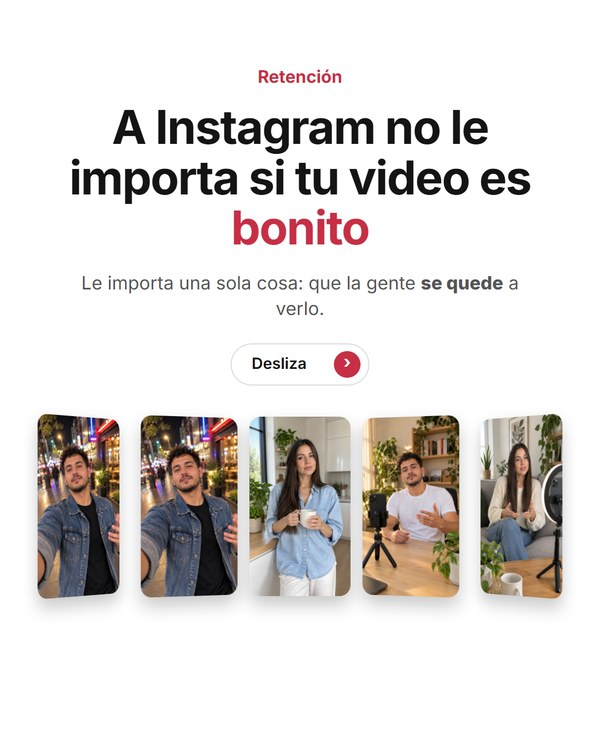
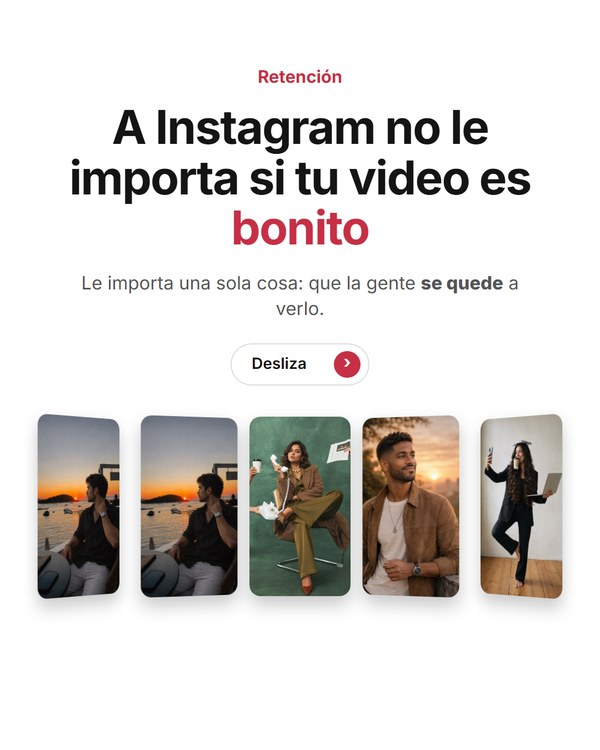
Carruseles: portadas nuevas de 7 plantillas con fotos de dirección editorial (recreadas con IA desde referencias)

Changed region(s): [[0.06, 0.552, 0.96, 0.7973]]

diff --git a/herramientas/carruseles/app.js b/herramientas/carruseles/app.js
@@ -533,7 +533,7 @@
     $(sel + ' [data-cambiar-estilo]').onclick = function () { E.volverDeEstilos = E.vista; ir('estilos'); };
   }
   // la tapa de un estilo: su portada de muestra (imagen del catálogo aprobado)
-  function tapaFamilia(el, id, ancho) { el.innerHTML = '<img src="carruseles/tapas/' + id + '.jpg" alt="" style="width:100%;height:100%;object-fit:cover;display:block" onerror="this.style.display=\'none\'">'; }
+  function tapaFamilia(el, id, ancho) { el.innerHTML = '<img src="carruseles/tapas/' + id + '.jpg?v=20261028f" alt="" style="width:100%;height:100%;object-fit:cover;display:block" onerror="this.style.display=\'none\'">'; }
   function resumen() {
     var C = E.crear, f = F.de(C.familia), vid = C.modo === 'video';
     var t = (C.texto || '').trim();
@@ -620,7 +620,7 @@
       $('#detalle-estilo').innerHTML = ''; return;
     }
     $('#rejilla-estilos').innerHTML = catalogo().map(function (f) {
-      return '<button type="button" class="fam-t ' + (pasa(f) ? '' : 'apagada') + (f.lista ? '' : ' pronto') + '" data-fam="' + f.id + '" aria-pressed="' + (f.id === E.crear.familia) + '"><img src="carruseles/tapas/' + f.id + '.jpg" alt="" loading="lazy"><span class="insignias">' + (f.anim ? '<span class="ins anim">▶ VIDEO</span>' : '') + (f.ia ? '<span class="ins ia">IA</span>' : '') + (f.lista ? '' : '<span class="ins pronto">PRONTO</span>') + '</span><b>' + esc(f.nombre) + '</b></button>';
+      return '<button type="button" class="fam-t ' + (pasa(f) ? '' : 'apagada') + (f.lista ? '' : ' pronto') + '" data-fam="' + f.id + '" aria-pressed="' + (f.id === E.crear.familia) + '"><img src="carruseles/tapas/' + f.id + '.jpg?v=20261028f" alt="" loading="lazy"><span class="insignias">' + (f.anim ? '<span class="ins anim">▶ VIDEO</span>' : '') + (f.ia ? '<span class="ins ia">IA</span>' : '') + (f.lista ? '' : '<span class="ins pronto">PRONTO</span>') + '</span><b>' + esc(f.nombre) + '</b></button>';
     }).join('');
     $$('[data-fam]').forEach(function (b) { b.onclick = function () { verEstilo(b.dataset.fam); }; });
     verEstilo(E.estiloVisto || E.crear.familia);
@@ -629,7 +629,7 @@
     E.estiloVisto = id;
     $$('[data-fam]').forEach(function (x) { x.setAttribute('aria-pressed', x.dataset.fam === id); });
     var f = F.de(id), av = null;   // (28-oct) sin avisos de «no sirve»: todas sirven
-    $('#detalle-estilo').innerHTML = '<img src="carruseles/tapas/' + f.id + '.jpg" alt="" style="width:100%;border-radius:12px">' +
+    $('#detalle-estilo').innerHTML = '<img src="carruseles/tapas/' + f.id + '.jpg?v=20261028f" alt="" style="width:100%;border-radius:12px">' +
       '<h3>' + esc(f.nombre) + '</h3>' +
       (av ? '<div class="aviso ambar"><div><b>Está pensada para ' + f.ideal.map(function (x) { return F.NOMOBJ[x]; }).join(' y ') + '.</b> Para ' + F.NOMOBJ[E.crear.obj] + ' te van mejor: ' + av.mejores.map(function (m) { return esc(m.nombre); }).join(', ') + '.</div></div>' : '') +
       '<div class="lista-def"><div><span>Ideal para</span><span>' + f.ideal.map(function (x) { return F.NOMOBJ[x]; }).join(', ') + (f.sirve && f.sirve.length ? ' · también ' + f.sirve.map(function (x) { return F.NOMOBJ[x]; }).join(', ') : '') + '</span></div>' +
@@ -1080,7 +1080,7 @@
 
   function pintarDiseno(P) {
     var c = car(), f = F.de(c.familia);
-    P.innerHTML = '<div class="grupo"><div class="etiqueta">Estilo</div><div class="estilo-mini"><img src="carruseles/tapas/' + f.id + '.jpg" alt=""><div><b>' + esc(f.nombre) + '</b><div class="pista">Cambias de estilo y tu texto se conserva.</div></div><button type="button" class="btn btn-linea btn-chico" id="d-estilo" style="margin-left:auto">Cambiar</button></div></div>' +
+    P.innerHTML = '<div class="grupo"><div class="etiqueta">Estilo</div><div class="estilo-mini"><img src="carruseles/tapas/' + f.id + '.jpg?v=20261028f" alt=""><div><b>' + esc(f.nombre) + '</b><div class="pista">Cambias de estilo y tu texto se conserva.</div></div><button type="button" class="btn btn-linea btn-chico" id="d-estilo" style="margin-left:auto">Cambiar</button></div></div>' +
       opcionesDe(f, c) + temasDe(f, c) +
       (FMT.hist ? '' : '<div class="grupo"><div class="etiqueta">Tamaño</div><div class="fila"><button type="button" class="chip" data-alto="1440" aria-pressed="' + (c.alto === 1440) + '">3:4 · 1080×1440</button><button type="button" class="chip" data-alto="1350" aria-pressed="' + (c.alto === 1350) + '">4:5 · 1080×1350</button></div><p class="pista">Instagram muestra hasta 3:4 en el perfil nuevo; 4:5 es el de siempre.</p></div>' ) +
       '<div class="grupo"><div class="etiqueta">Esta lámina</div><div class="fila"><button type="button" class="btn btn-linea btn-chico" id="d-rearmar">Volver a armarla como estaba</button><button type="button" class="btn btn-linea btn-chico" id="d-duplicar">Duplicarla</button><button type="button" class="btn btn-linea btn-chico" id="d-quitar" style="color:var(--rojo)">Quitarla</button></div></div>' +

diff --git a/herramientas/carruseles.html b/herramientas/carruseles.html
@@ -246,6 +246,6 @@
 <script src="carruseles/familias/abanico.js?v=20260930g"></script>
 <script src="carruseles/familias/historias.js?v=20261008his"></script>
 <script src="carruseles/historias-ui.js?v=20261009hs9"></script>
-<script src="carruseles/app.js?v=20261028inv"></script>
+<script src="carruseles/app.js?v=20261028tapas"></script>
 </body>
 </html>
